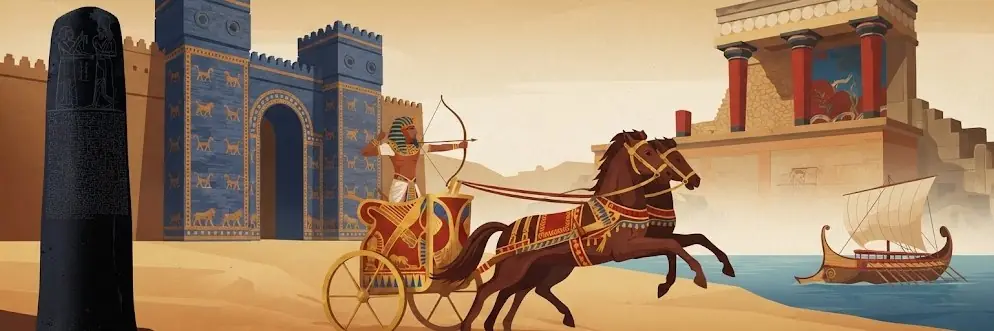
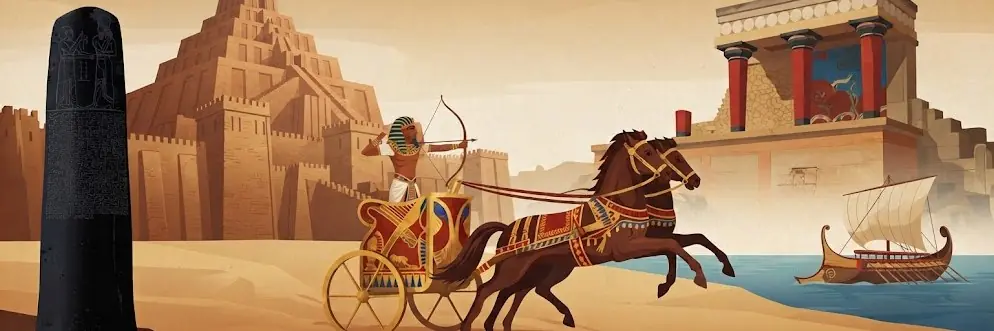
Capítulo ant2: zigurat en lugar de la puerta de Ishtar
Claude-Session: https://claude.ai/code/session_01V9xa97nQMEEdECz83CmCea

diff --git a/sw.js b/sw.js
@@ -1,5 +1,5 @@
 // HistoKHB — service worker: la app abre sin conexión con lo ya visto.
-const V='hk-v154';
+const V='hk-v155';
 const SHELL=['./','index.html','manifest.json','datos/indice.json','img/icono-192.png'];
 self.addEventListener('install',e=>{e.waitUntil(caches.open(V).then(c=>c.addAll(SHELL)).then(()=>self.skipWaiting()));});
 self.addEventListener('activate',e=>{e.waitUntil(caches.keys().then(ks=>Promise.all(ks.filter(k=>k!==V).map(k=>caches.delete(k)))).then(()=>self.clients.claim()));});
